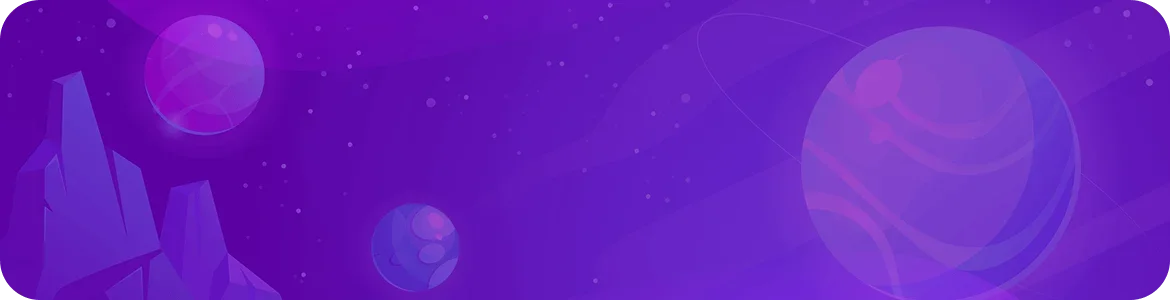
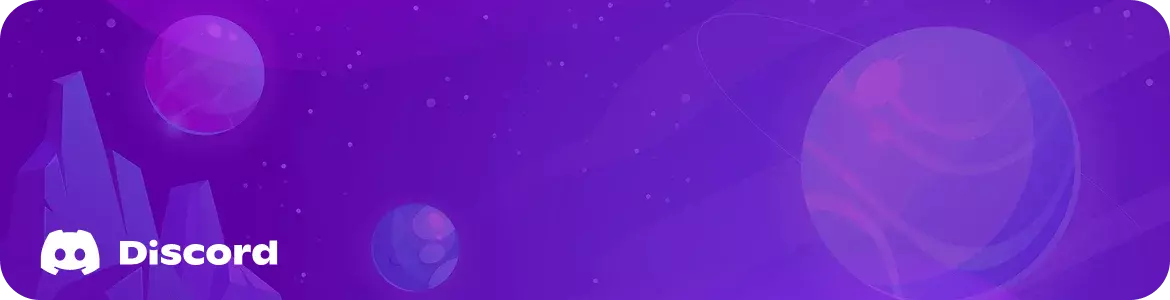
redesign

Changed region(s): [[0.0308, 0.75, 0.2462, 0.93]]

diff --git a/src/components/gaming-update-card/index.jsx b/src/components/gaming-update-card/index.jsx
@@ -8,7 +8,7 @@ const GamingUpdateCard = () => {
             <div className="gaming_update_text z-10 relative py-15 px-8 md:py-24 md:px-24 flex justify-between items-center flex-col lg:flex-row">
                 <h2 className="uppercase font-bold text-center md:text-left">
                     Connect with us <br />
-                    for gamING update.
+                    on Discord!.
                 </h2>
                 <div className="gaming_update_btn mt-8 lg:mt-0">
                     <Button path="/" size="lg">

diff --git a/src/assets/css/swiper.css b/src/assets/css/swiper.css
@@ -16,6 +16,14 @@
     font-weight: 400;
     font-style: normal;
 } */
+h1.mb-6.sm\:mb-10.text-shadow.uppercase.max-w-3xl {
+    font-family: 'Segoe UI', Tahoma, Geneva, Verdana, sans-serif;
+    font-size: 20px;
+}
+
+
+
+
 :root {
     --swiper-theme-color: #007aff;
 }

diff --git a/src/assets/css/global.css b/src/assets/css/global.css
@@ -47,7 +47,7 @@
 @layer utilities {
     @variants responsive {
         .text-shadow {
-            text-shadow: 3px 3px 0px #b154f0;
+            ;
         }
     }
     @variants responsive {
